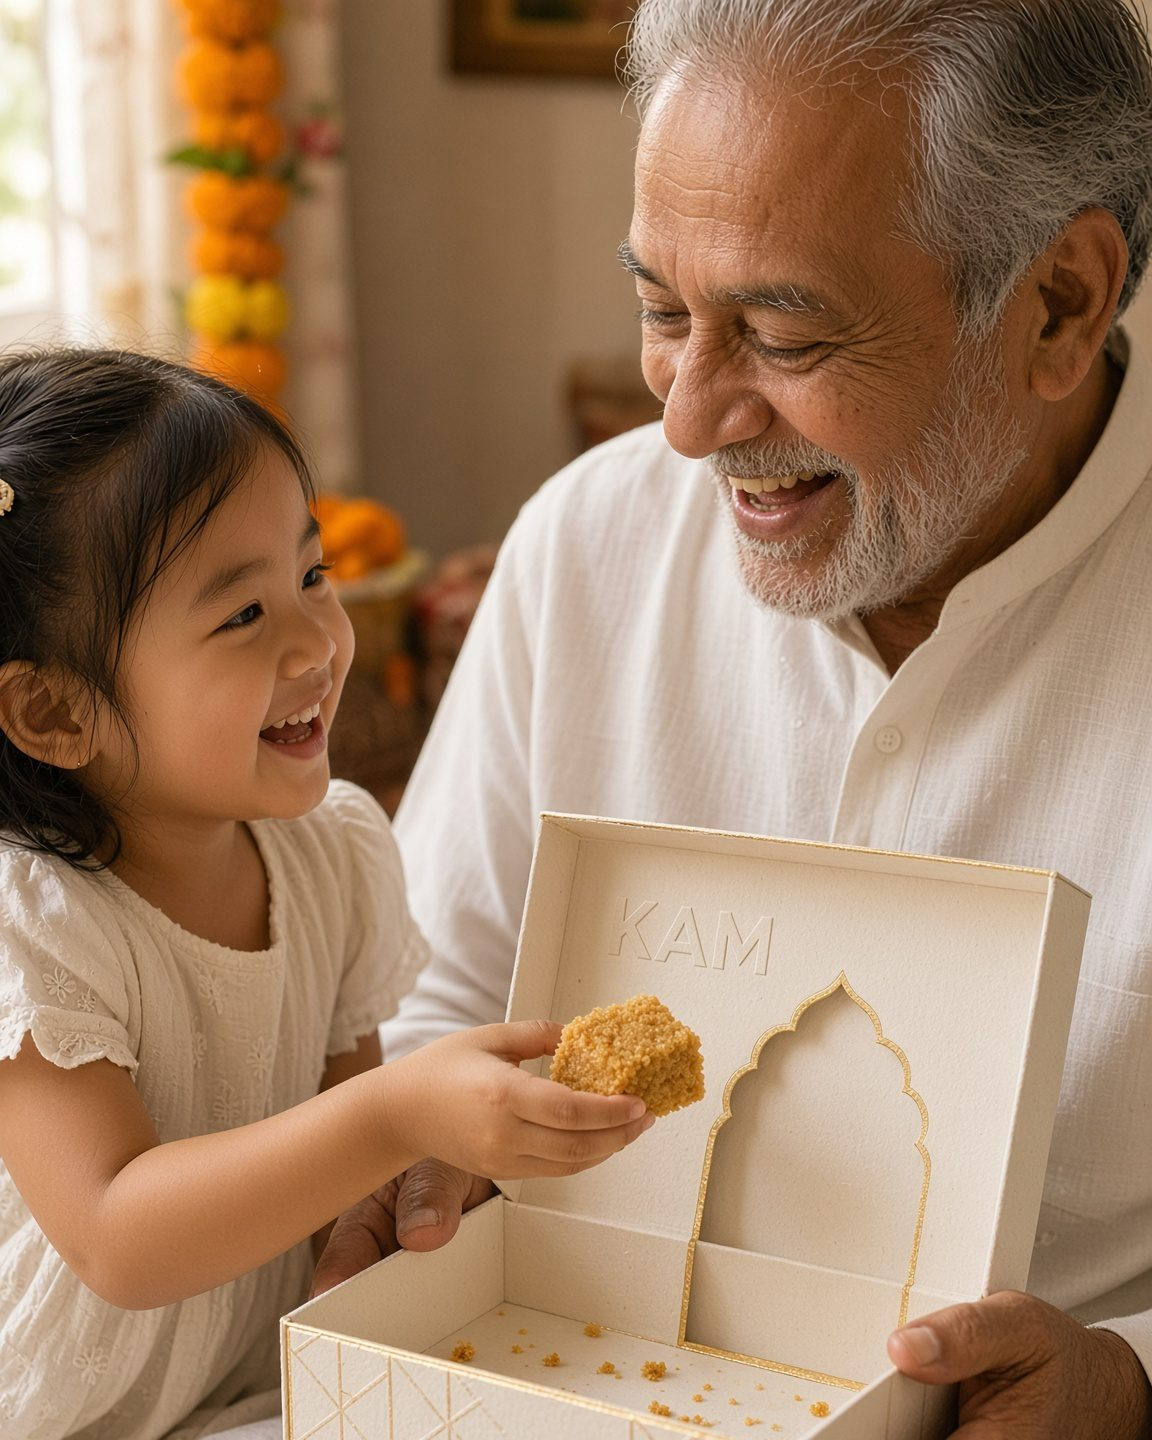
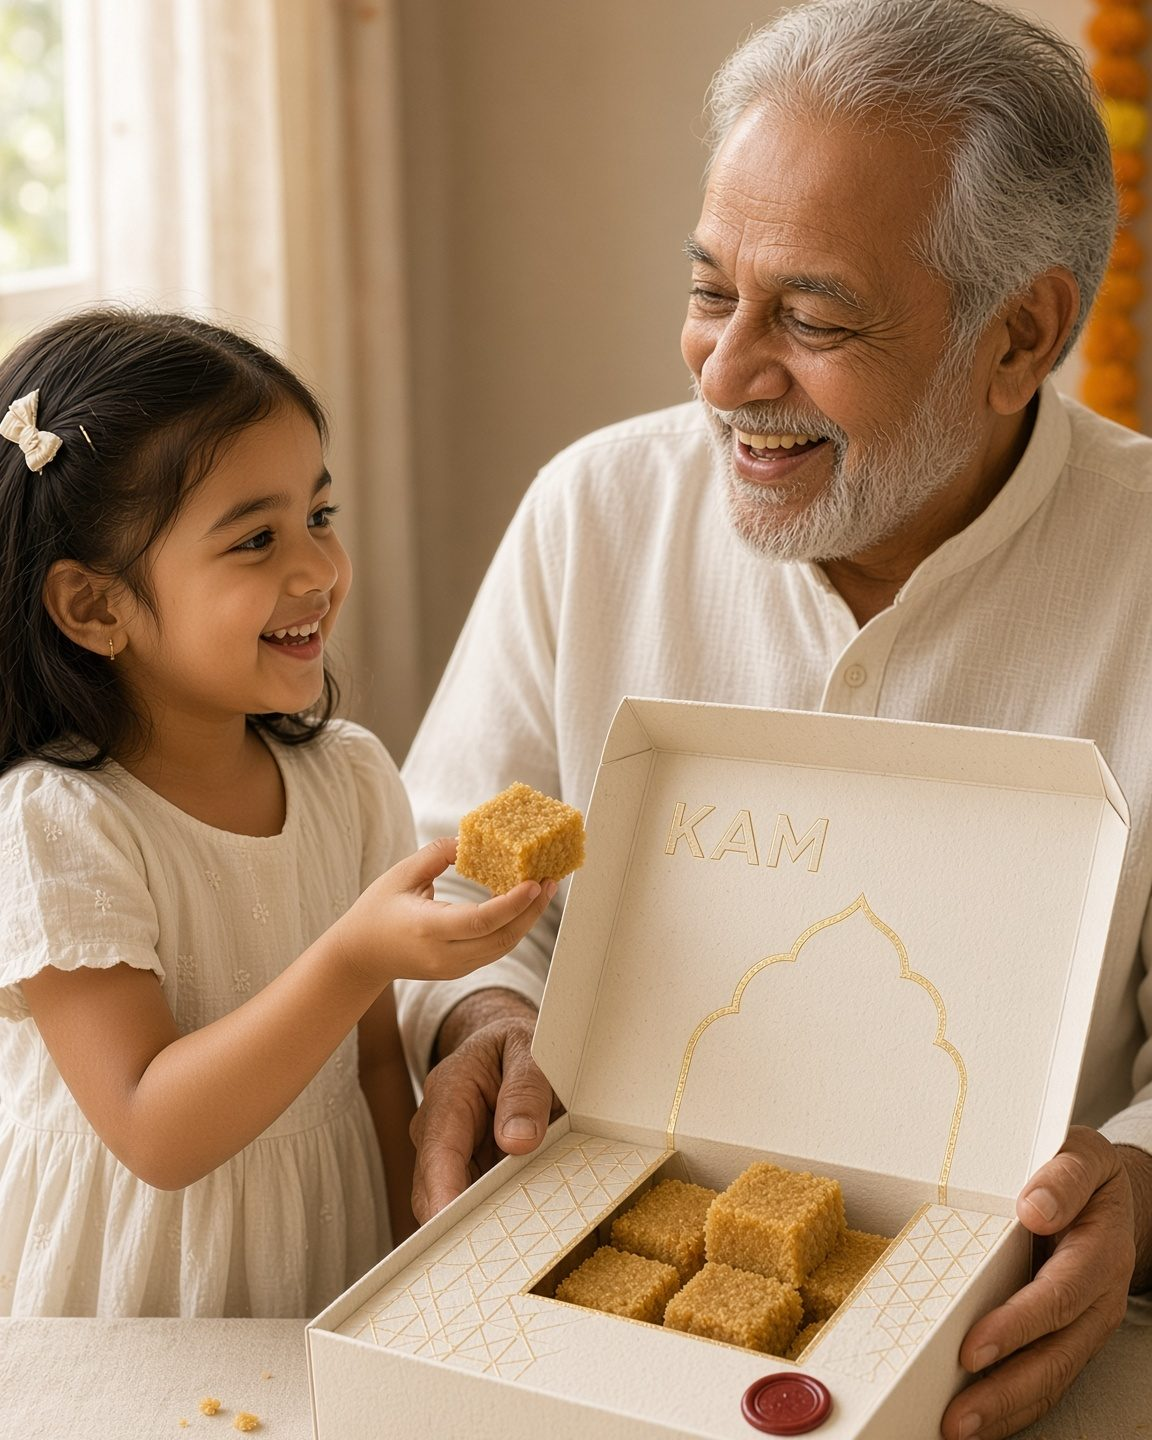
Add family, unboxing, ingredients, proof, blind-test and doorstep photos
Claude-Session: https://claude.ai/code/session_01M8bdyF3DA2NiGsZ5sKj8Nj

diff --git a/styles.css b/styles.css
@@ -106,7 +106,7 @@ section{padding:clamp(64px,10vw,140px) max(5vw,18px)}
 .unbox .ph.empty~.unbox-copy{color:var(--ink);text-shadow:none}
 .unbox .ph.empty .art{left:auto;right:0;width:62%}
 @media(max-width:760px){.unbox .ph.empty .art{width:100%;height:60%}}
-.unbox .ph.fill img{object-position:50% 62%;transform:scale(var(--zs,1.12))}
+.unbox .ph.fill img{object-position:50% 52%;transform:scale(var(--zs,1.12))}
 
 /* collection */
 .collection{max-width:1440px;margin:0 auto}
